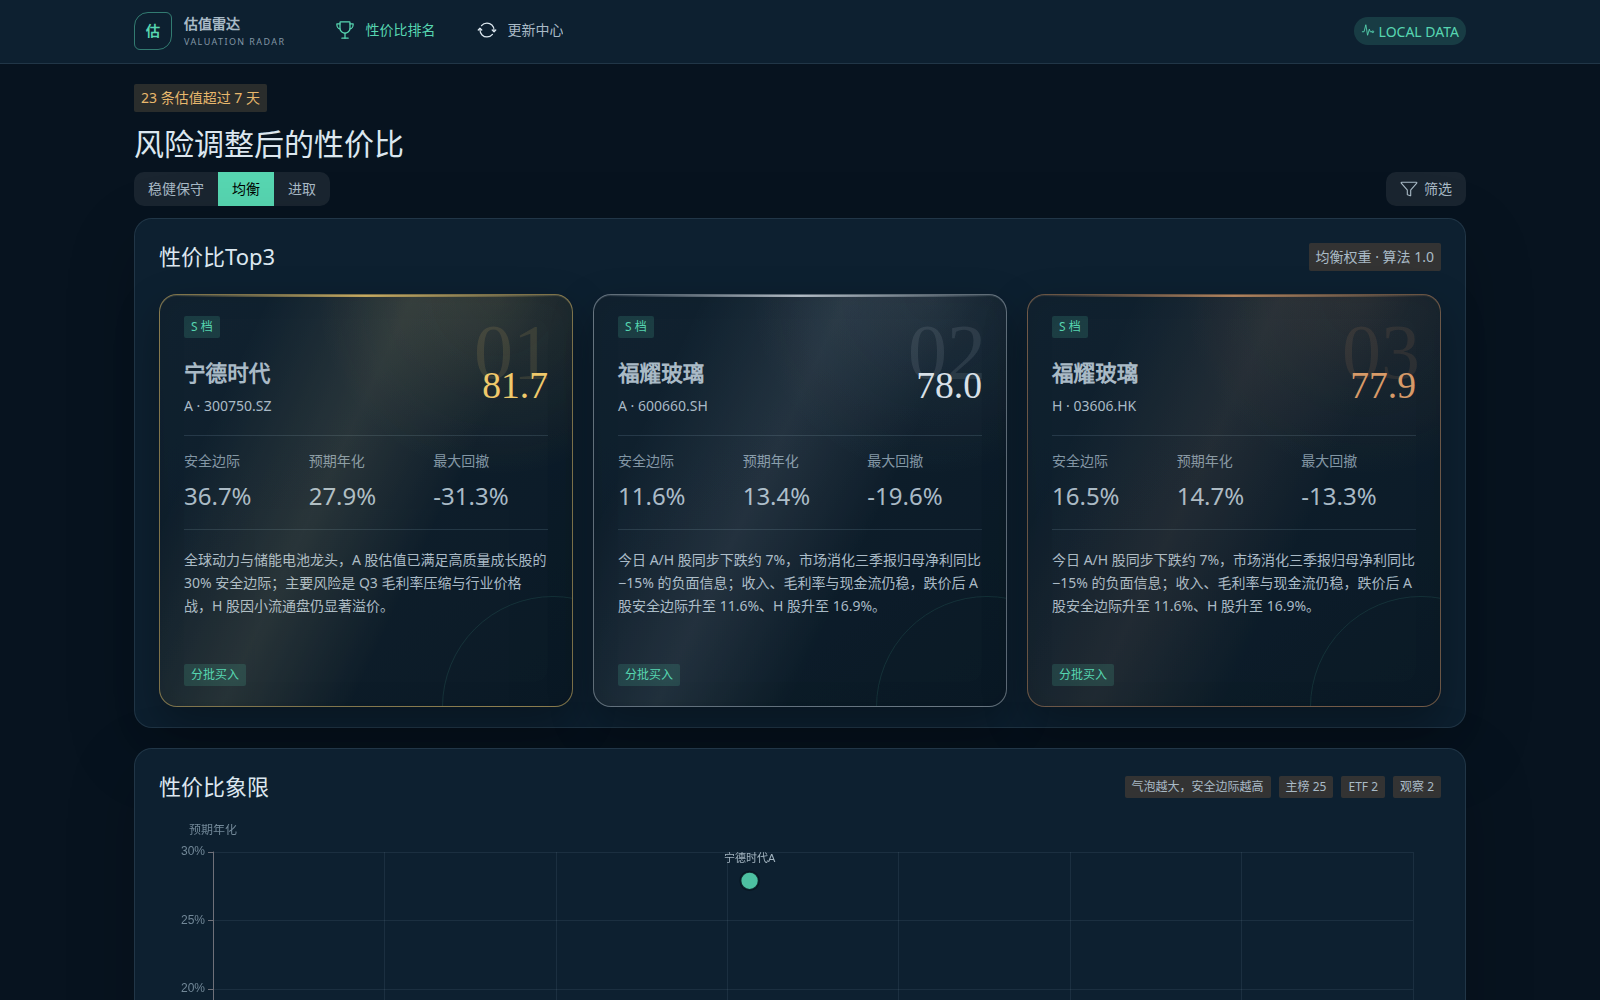
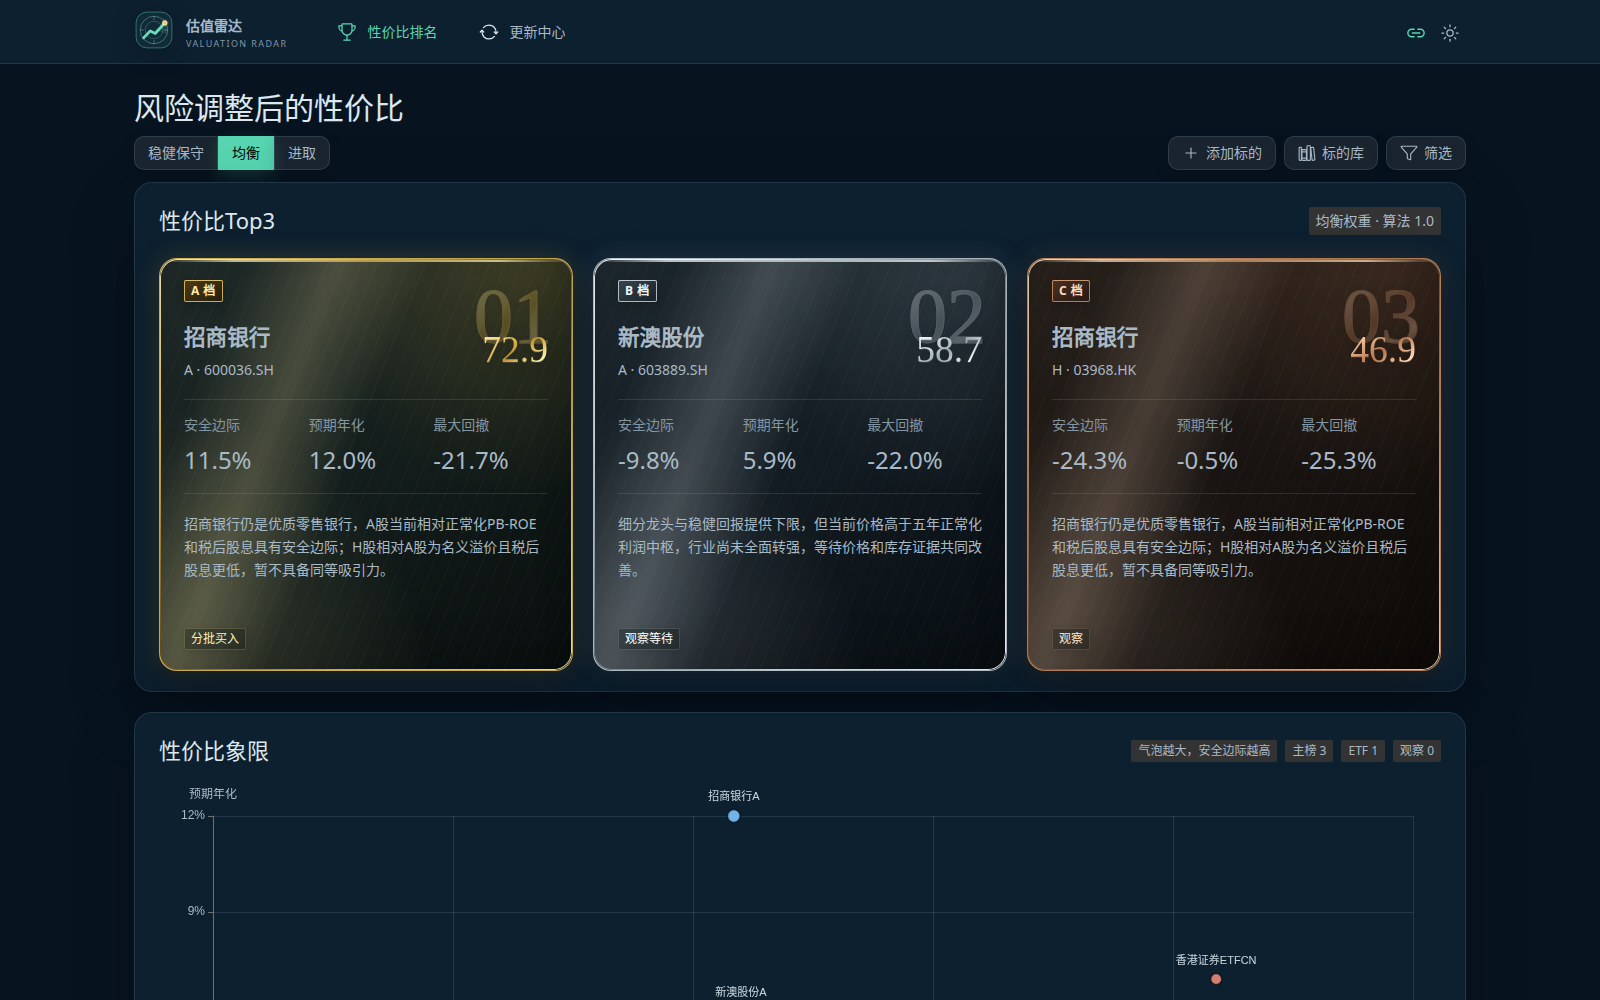
（Bug修复）修复市场筛选与公式渲染 1.修复 A/H 筛选切换时被临时空选项重置的问题，并适配移动端筛选浮层宽度； 2.修复公式上下裁切和裸 LaTeX 行内公式未渲染，同时避免误识别接口名与文件名中的下划线； 3.补充风险偏好的说明与四维权重展示，并增加筛选、公式解析和偏好字段回归测试； 4.更新 README、界面截图及候选估值预览说明；

diff --git a/apps/web/e2e/ranking.spec.ts b/apps/web/e2e/ranking.spec.ts
@@ -30,6 +30,12 @@ test("switches risk profile and opens a valuation detail", async ({ page }) => {
   await expect(page.locator(".n-spin")).toHaveCount(0);
   await expect(page).toHaveURL(/profile=aggressive/);
   await expect(aggressiveButton).toHaveAttribute("aria-pressed", "true");
+  await expect(
+    page.locator(".top3-card .n-tag").filter({ hasText: "以预期收益为主" }),
+  ).toBeVisible();
+  await expect(
+    page.locator(".top3-card .n-tag").filter({ hasText: "收益 40%" }),
+  ).toBeVisible();
 
   const firstCard = page.locator(".top-card").first();
   await expect(firstCard).toContainText("宁德时代");
@@ -364,15 +370,39 @@ test("naive scrollbar keeps page width stable between routes", async ({ page }) 
 
 test("filtered top three keeps gold silver bronze positions", async ({ page }) => {
   await page.goto("/");
-  await page.getByRole("button", { name: "筛选" }).click();
-  await page.locator(".filter-popover .n-select").first().click();
-  await page.locator(".n-base-select-option").filter({ hasText: "H 股" }).click();
-  await page.keyboard.press("Escape");
+  const filterTrigger = page
+    .locator(".toolbar")
+    .getByRole("button", { name: /筛选/ });
+  const selectMarket = async (label: "A 股" | "H 股") => {
+    await filterTrigger.click();
+    await page.locator(".filter-popover .n-select").first().click();
+    await page.getByText(label, { exact: true }).click();
+    await page.keyboard.press("Escape");
+    await filterTrigger.click();
+    await expect(page.locator(".filter-popover")).toBeHidden();
+    await expect(page.locator(".n-spin")).toHaveCount(0);
+  };
 
-  await expect(page.locator(".top-card.rank-1")).toHaveCount(1);
-  await expect(page.locator(".top-card.rank-2")).toHaveCount(1);
-  await expect(page.locator(".top-card.rank-3")).toHaveCount(1);
+  await selectMarket("H 股");
+  await expect(page.locator(".top-card")).toHaveCount(3);
+  await expect(page.locator(".top-card")).toContainText([".HK", ".HK", ".HK"]);
+  expect(
+    await page.locator(".top-card").evaluateAll((cards) =>
+      cards.every((card) => !card.textContent?.includes(".SH")),
+    ),
+  ).toBe(true);
+
+  await selectMarket("A 股");
+  await expect(page.locator(".top-card")).toContainText([".SH", ".SH", ".SH"]);
+  expect(
+    await page.locator(".top-card").evaluateAll((cards) =>
+      cards.every((card) => !card.textContent?.includes(".HK")),
+    ),
+  ).toBe(true);
+
+  await selectMarket("H 股");
+  await expect(page.locator(".top-card")).toHaveCount(3);
+  await expect(page.locator(".top-card")).toContainText([".HK", ".HK", ".HK"]);
   await expect(page.locator(".top-card.rank-1 .top-rank")).toHaveText("01");
   await expect(page.locator(".top-card.rank-2 .top-rank")).toHaveText("02");
-  await expect(page.locator(".top-card.rank-3 .top-rank")).toHaveText("03");
 });

diff --git a/apps/web/src/components/RichText.test.ts b/apps/web/src/components/RichText.test.ts
@@ -33,6 +33,29 @@ describe("rich report text", () => {
     ]);
   });
 
+  it("renders bare LaTeX symbols inside explanation text", () => {
+    const text =
+      "其中 M_{H} 为H股总市值，S_{\\mathrm{HKD/CNY}}为汇率，\\overline{E}_{D}为正常化盈利。";
+    const math = parseInlineRichText(text).filter(
+      (segment) => segment.type === "inline_math",
+    );
+
+    expect(math).toEqual([
+      { type: "inline_math", value: "M_{H}" },
+      { type: "inline_math", value: "S_{\\mathrm{HKD/CNY}}" },
+      { type: "inline_math", value: "\\overline{E}_{D}" },
+    ]);
+  });
+
+  it("does not treat code identifiers or file paths as formulas", () => {
+    const text =
+      "东方财富 RPT_VALUEANALYSIS_DET、RP T_F10_FINANCE_*；缓存 common/fx_rates.json 和 common/treasury10y.json。";
+
+    expect(parseInlineRichText(text)).toEqual([
+      { type: "text", value: text },
+    ]);
+  });
+
   it("renders bold text, code and inline KaTeX", () => {
     const wrapper = mount(RichText, {
       props: {
@@ -61,6 +84,26 @@ describe("rich report text", () => {
     expect(wrapper.text()).toContain("代入数据");
     expect(wrapper.text()).toContain("指每股现金分红");
     expect(wrapper.text()).toContain("指A股价格");
+  });
+
+  it("renders bare symbols instead of leaking raw LaTeX in explanations", () => {
+    const wrapper = mount(FormulaBlock, {
+      props: {
+        block: {
+          type: "formula",
+          latex:
+            "PE_{\\mathrm{norm}}=\\frac{M_{H}S_{\\mathrm{HKD/CNY}}}{\\overline{E}_{D}}",
+          substitution:
+            "PE_{\\mathrm{norm}}=1{,}098.89\\times0.8506\\div117.48=8.0\\text{倍}",
+          explanation:
+            "其中 M_{H} 为H股总市值，S_{\\mathrm{HKD/CNY}}为汇率，\\overline{E}_{D}为正常化盈利。",
+        },
+      },
+    });
+
+    expect(wrapper.findAll(".math-formula").length).toBe(5);
+    expect(wrapper.text()).toContain("其中");
+    expect(wrapper.text()).toContain("为H股总市值");
   });
 
   it("renders structured bullet content", () => {

diff --git a/apps/web/src/views/DashboardView.vue b/apps/web/src/views/DashboardView.vue
@@ -102,6 +102,7 @@ const industryOptions = computed(() =>
 );
 
 watch(marketOptions, (options) => {
+  if (!query.data.value) return;
   if (market.value && !options.some((option) => option.value === market.value)) {
     market.value = null;
   }
@@ -389,7 +390,7 @@ function rowProps(row: RankingItem) {
           v-model:show="filtersOpen"
           trigger="click"
           placement="bottom-end"
-          :width="420"
+          :width="340"
         >
           <template #trigger>
             <NButton
@@ -467,9 +468,21 @@ function rowProps(row: RankingItem) {
         <NSpace vertical :size="20">
           <NSpace class="card-heading" align="center" justify="space-between" :wrap="true">
             <NH2>性价比Top3</NH2>
-            <NTag :bordered="false">
-              {{ query.data.value.profile_label }}权重 · 算法 {{ query.data.value.algorithm_version }}
-            </NTag>
+            <NSpace align="center" :size="8" :wrap="true">
+              <NTag :bordered="false">
+                {{ query.data.value.profile_label }} ·
+                {{ query.data.value.profile_description }}
+              </NTag>
+              <NTag :bordered="false">
+                边际 {{ formatPercent(query.data.value.profile_weights.margin * 100, 0) }}
+                · 收益 {{ formatPercent(query.data.value.profile_weights.base * 100, 0) }}
+                · 抗跌 {{ formatPercent(query.data.value.profile_weights.risk * 100, 0) }}
+                · 稳定 {{ formatPercent(query.data.value.profile_weights.stability * 100, 0) }}
+              </NTag>
+              <NTag :bordered="false">
+                算法 {{ query.data.value.algorithm_version }}
+              </NTag>
+            </NSpace>
           </NSpace>
           <NEmpty
             v-if="!query.data.value.top_three.length"

diff --git a/apps/web/src/lib/report-rich-text.ts b/apps/web/src/lib/report-rich-text.ts
@@ -6,6 +6,27 @@ export interface RichTextSegment {
 }
 
 const INLINE_TOKEN = /(\*\*[^*]+\*\*|`[^`]+`|\\\(.+?\\\))/g;
+const BRACED_LATEX = String.raw`\{(?:[^{}]|\{[^{}]*\})*\}`;
+const LATEX_SCRIPT = String.raw`[_^]${BRACED_LATEX}`;
+const BARE_LATEX = new RegExp(
+  String.raw`(?<![A-Za-z0-9_])(?:\\[A-Za-z]+(?:${BRACED_LATEX})?|[A-Za-zΑ-ω][A-Za-z0-9]*?)${LATEX_SCRIPT}+(?![A-Za-z0-9_])`,
+  "g",
+);
+
+function appendTextSegments(segments: RichTextSegment[], text: string): void {
+  let cursor = 0;
+  for (const match of text.matchAll(BARE_LATEX)) {
+    const index = match.index ?? 0;
+    if (index > cursor) {
+      segments.push({ type: "text", value: text.slice(cursor, index) });
+    }
+    segments.push({ type: "inline_math", value: match[0] });
+    cursor = index + match[0].length;
+  }
+  if (cursor < text.length) {
+    segments.push({ type: "text", value: text.slice(cursor) });
+  }
+}
 
 export function parseInlineRichText(text: string): RichTextSegment[] {
   const segments: RichTextSegment[] = [];
@@ -13,7 +34,7 @@ export function parseInlineRichText(text: string): RichTextSegment[] {
   for (const match of text.matchAll(INLINE_TOKEN)) {
     const index = match.index ?? 0;
     if (index > cursor) {
-      segments.push({ type: "text", value: text.slice(cursor, index) });
+      appendTextSegments(segments, text.slice(cursor, index));
     }
     const token = match[0];
     if (token.startsWith("**")) {
@@ -26,7 +47,7 @@ export function parseInlineRichText(text: string): RichTextSegment[] {
     cursor = index + token.length;
   }
   if (cursor < text.length) {
-    segments.push({ type: "text", value: text.slice(cursor) });
+    appendTextSegments(segments, text.slice(cursor));
   }
   return segments;
 }

diff --git a/apps/web/src/api/types.ts b/apps/web/src/api/types.ts
@@ -54,6 +54,13 @@ export interface Freshness {
 export interface RankingResponse {
   profile: ProfileCode;
   profile_label: string;
+  profile_description: string;
+  profile_weights: {
+    margin: number;
+    base: number;
+    risk: number;
+    stability: number;
+  };
   algorithm_version: string;
   main_board: RankingItem[];
   etfs: RankingItem[];

diff --git a/apps/web/src/styles/components.css b/apps/web/src/styles/components.css
@@ -822,8 +822,13 @@
 .math-formula--display {
   display: block;
   width: 100%;
+  padding: 0.65em 0;
   overflow-x: auto;
   text-align: center;
+}
+
+.math-formula--display .katex-display {
+  margin: 0.2em 0;
 }
 
 .math-formula .katex {

diff --git a/apps/api/tests/test_import_and_queries.py b/apps/api/tests/test_import_and_queries.py
@@ -73,6 +73,14 @@ def test_imports_contract_card_and_serves_ranking(tmp_path: Path) -> None:
         assert ranking.counts["main_board"] == 2
         assert len(ranking.top_three) == 2
         assert ranking.top_three[0].rank == 1
+        assert ranking.profile_label == "均衡"
+        assert ranking.profile_description == "默认基准"
+        assert ranking.profile_weights == {
+            "margin": 0.30,
+            "base": 0.25,
+            "risk": 0.20,
+            "stability": 0.25,
+        }
 
         detail = get_valuation_detail(
             session,

diff --git a/apps/api/app/services/queries.py b/apps/api/app/services/queries.py
@@ -133,6 +133,13 @@ def get_ranking(
     return RankingResponse(
         profile=profile,
         profile_label=profile_definition.label,
+        profile_description=profile_definition.description,
+        profile_weights={
+            "margin": profile_definition.margin,
+            "base": profile_definition.base,
+            "risk": profile_definition.risk,
+            "stability": profile_definition.stability,
+        },
         algorithm_version=run.algorithm_version,
         main_board=main_board,
         etfs=etfs,

diff --git a/apps/api/app/schemas/api.py b/apps/api/app/schemas/api.py
@@ -73,6 +73,8 @@ class RankingItemOut(BaseModel):
 class RankingResponse(BaseModel):
     profile: str
     profile_label: str
+    profile_description: str
+    profile_weights: dict[str, float]
     algorithm_version: str
     main_board: list[RankingItemOut]
     etfs: list[RankingItemOut]

diff --git a/README.md b/README.md
@@ -16,13 +16,21 @@
 
 ![数据更新与运行状态](docs/screenshots/updates.png)
 
+### 候选估值预览
+
+![候选估值预览](docs/screenshots/review-preview.png)
+
 ## 已实现
 
 - Vue 3 排名首页：稳健保守 / 均衡 / 进取三套榜单、Top 3、象限图、筛选和完整排名。
 - 同页完整估值详情：点击排名后在当前页面展开，包含合理区间、当前安全边际、收益拆解、四维评分、仓位、风险和 A/H 对照。
 - SQLite 数据层：历史估值版本、市场快照、行情、宏观数据、排名快照、任务和 AI 运行记录。
 - 收盘后自动更新：交易日历、可配置开关/频率/时间、行情抓取、任务幂等和排名重算。
-- Codex 估值闭环：隔离暂存目录调用 `value-investing` skill，Python 校验后进入人工复核队列。
+- Codex 持久会话：首次运行保存 `thread_id`，暂停、中断或服务重启后通过 `codex exec resume` 续接原会话和工作目录，避免重复取证与计算。
+- 任务生命周期：估值任务支持暂停、恢复、单任务删除和累计执行时间；删除运行中任务时会先终止 Codex 进程组，再清理任务记录和暂存目录。
+- Codex 估值闭环：隔离暂存目录调用 `value-investing` skill，Python 校验后进入人工复核队列；同一任务的多轮执行在 Debug 中合并为一个逻辑会话，同时保留逐次运行的审计明细。
+- 候选复核：待复核卡片先进入完整估值预览，批准、拒绝按钮固定在预览底部；已拒绝候选支持预览、重新估值和永久删除。
+- ETF 数据约束：校验前十大成分权重、代表 PB 的调和平均、净值与价格同步日期、折溢价率及章节展示契约，减少不可审计的 ETF 估值结果。
 - 手动添加标的：主页可按名称创建估值任务，证券代码可选；未提供代码时由 Codex 检索市场，A/H 两地上市默认同时调研。
 - 标的生命周期：标的库支持移出榜单、恢复和输入名称确认后的彻底删除；归档保留全部估值历史，彻底删除同步清理关联任务与暂存目录。
 
@@ -81,17 +89,22 @@ SQLite 历史估值版本
 三套排名快照
 
 交易日收盘后 → scheduler → job_runs → worker
-                                  ├─ 行情/宏观写入
-                                  ├─ 排名重算
-                                  └─ Codex 候选估值 → 待复核
+                                  ├─ 行情/宏观写入 → 排名重算
+                                  ├─ Codex 持久会话 ─┬─ 暂停 / 恢复
+                                  │                   ├─ 中断后续接
+                                  │                   └─ 终止并删除
+                                  └─ 候选估值校验 → 预览复核
+                                                       ├─ 批准 → 发布并重算排名
+                                                       └─ 拒绝 → 保留或删除
 ```
 
-最新行情只改变“当前安全边际”和排名，不改写历史合理中枢。Codex 结果批准前不会进入当前排名。
+最新行情只改变“当前安全边际”和排名，不改写历史合理中枢。Codex 结果批准前不会进入当前排名。暂停、中断和恢复不会重置累计执行时间；只有当前工作目录或持久会话不可用时，才会回退为新的 Codex 会话。
 
 ## 数据与安全
 
 - Web 开发服务器监听 `0.0.0.0`，允许同一局域网内访问；API 仍仅监听 `127.0.0.1`，浏览器请求通过 Vite 的 `/api` 代理转发。
 - 数据库、日志、归档和暂存目录均被 Git 忽略。
 - 模型在 `storage/staging/` 隔离目录执行，使用 `workspace-write` 沙箱。
+- Codex 会话由本机 Codex CLI 持久化；任务删除会终止对应进程组并清理任务暂存目录。
 - 新估值的必需数据缺失时立即终止，不生成或发布候选卡；历史卡只做只读兼容。
 - 所有分析结果仅用于研究，不构成投资建议。
